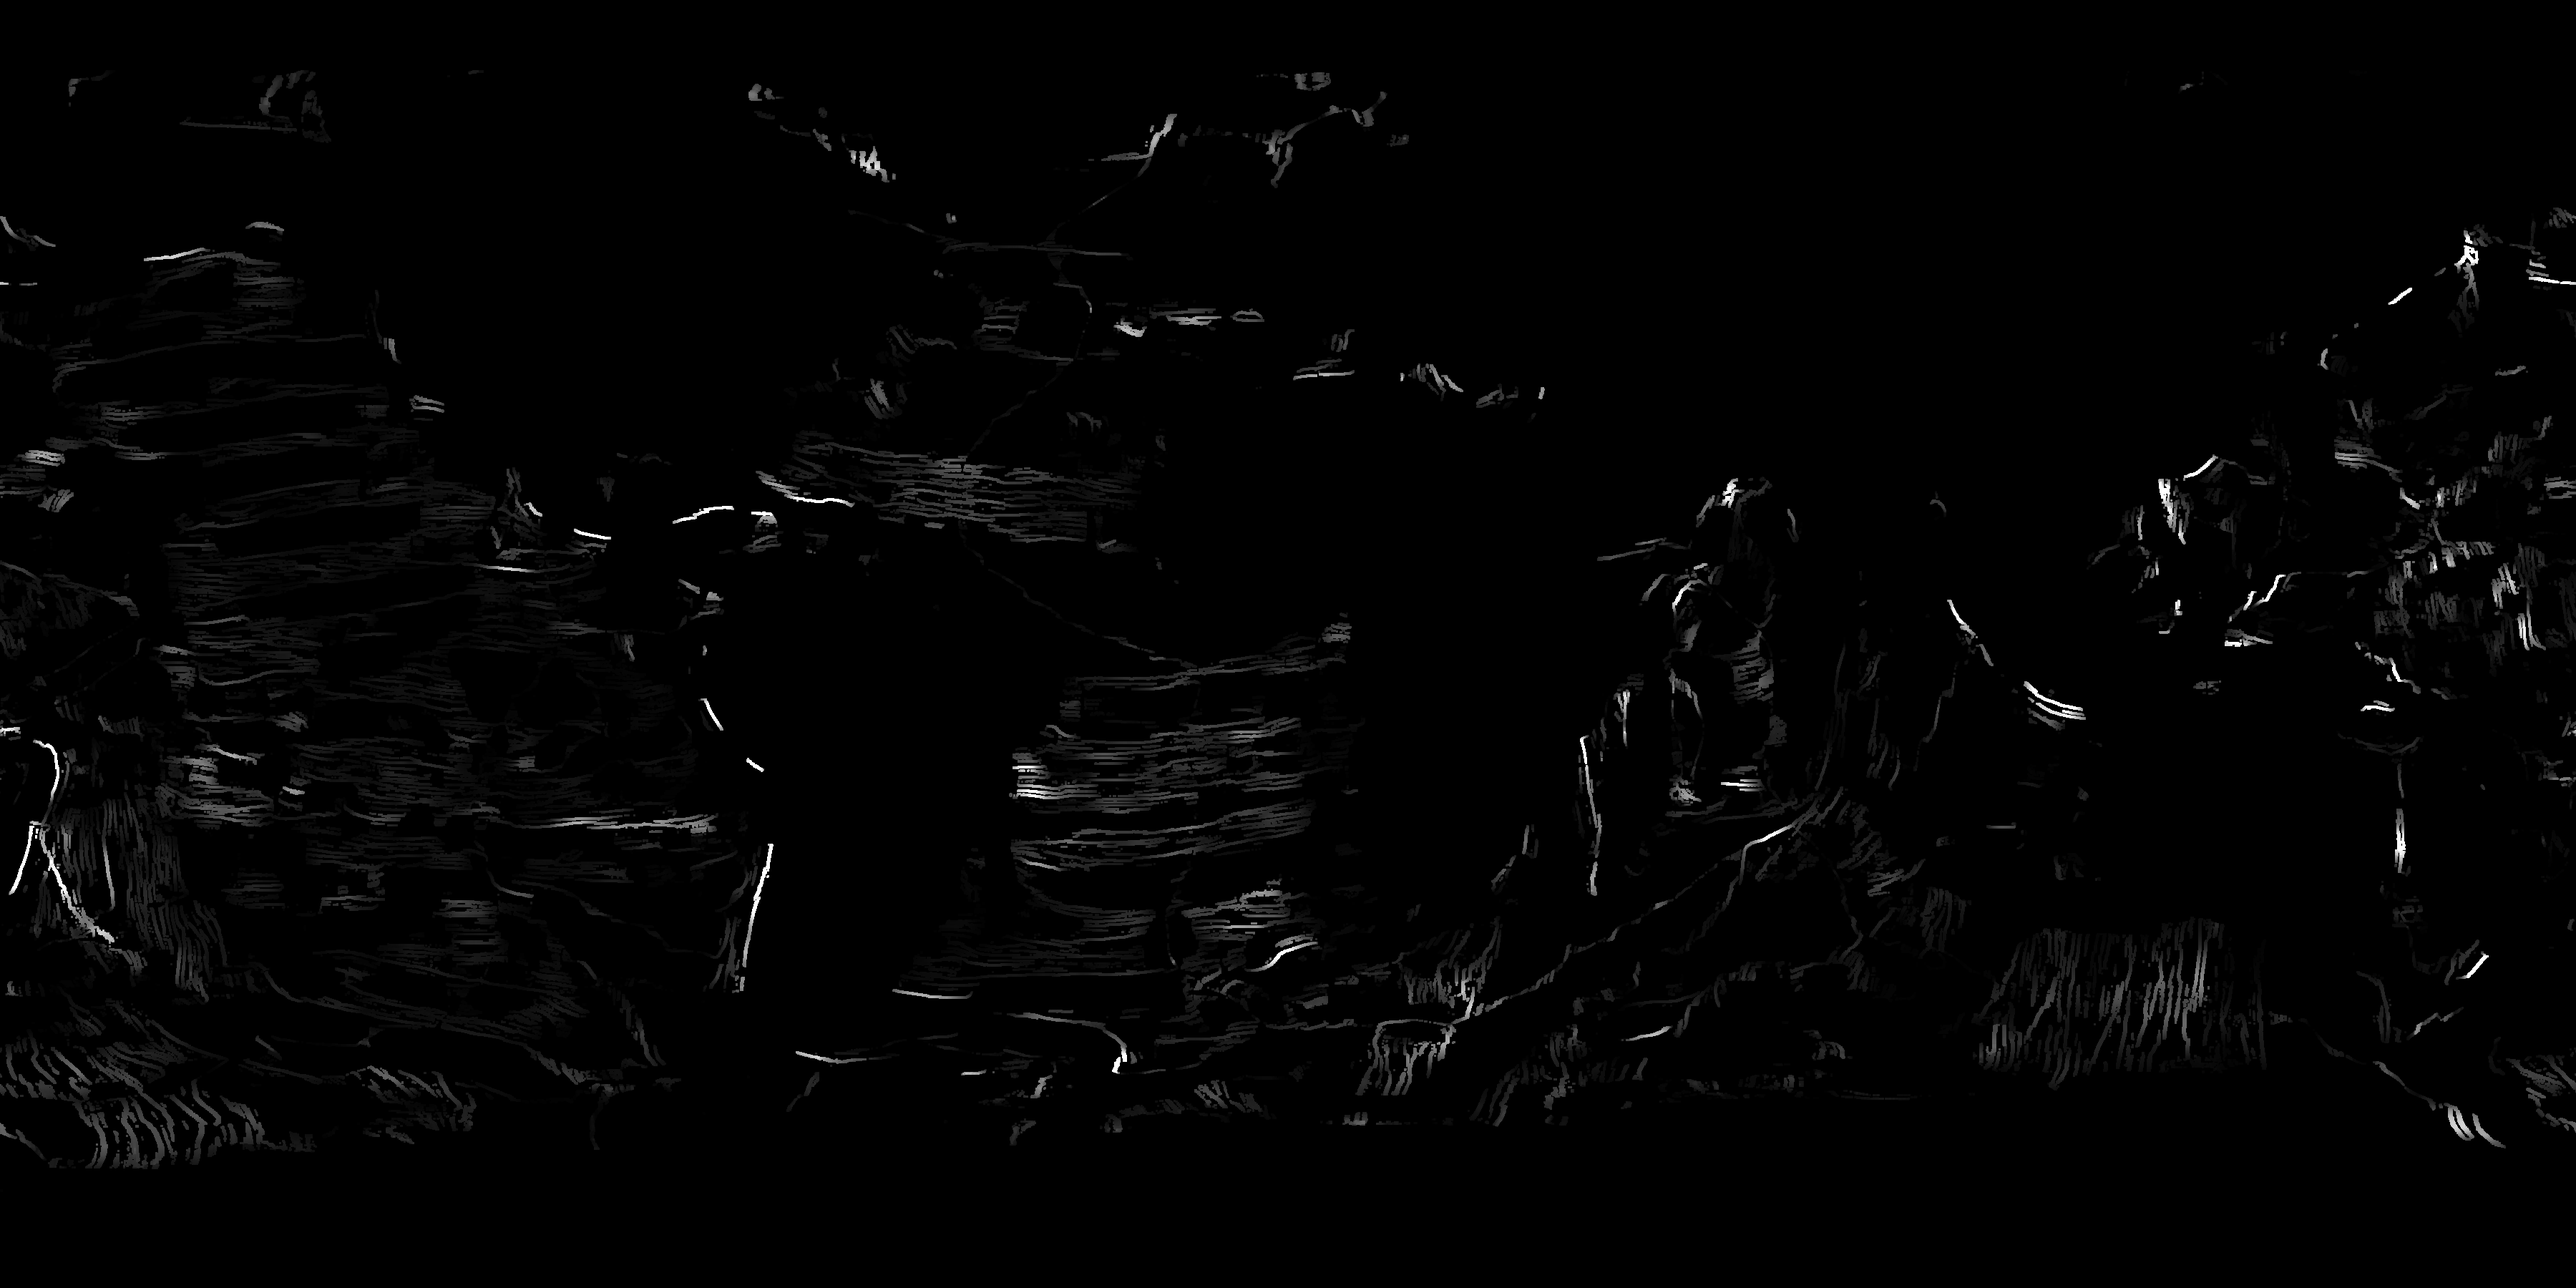
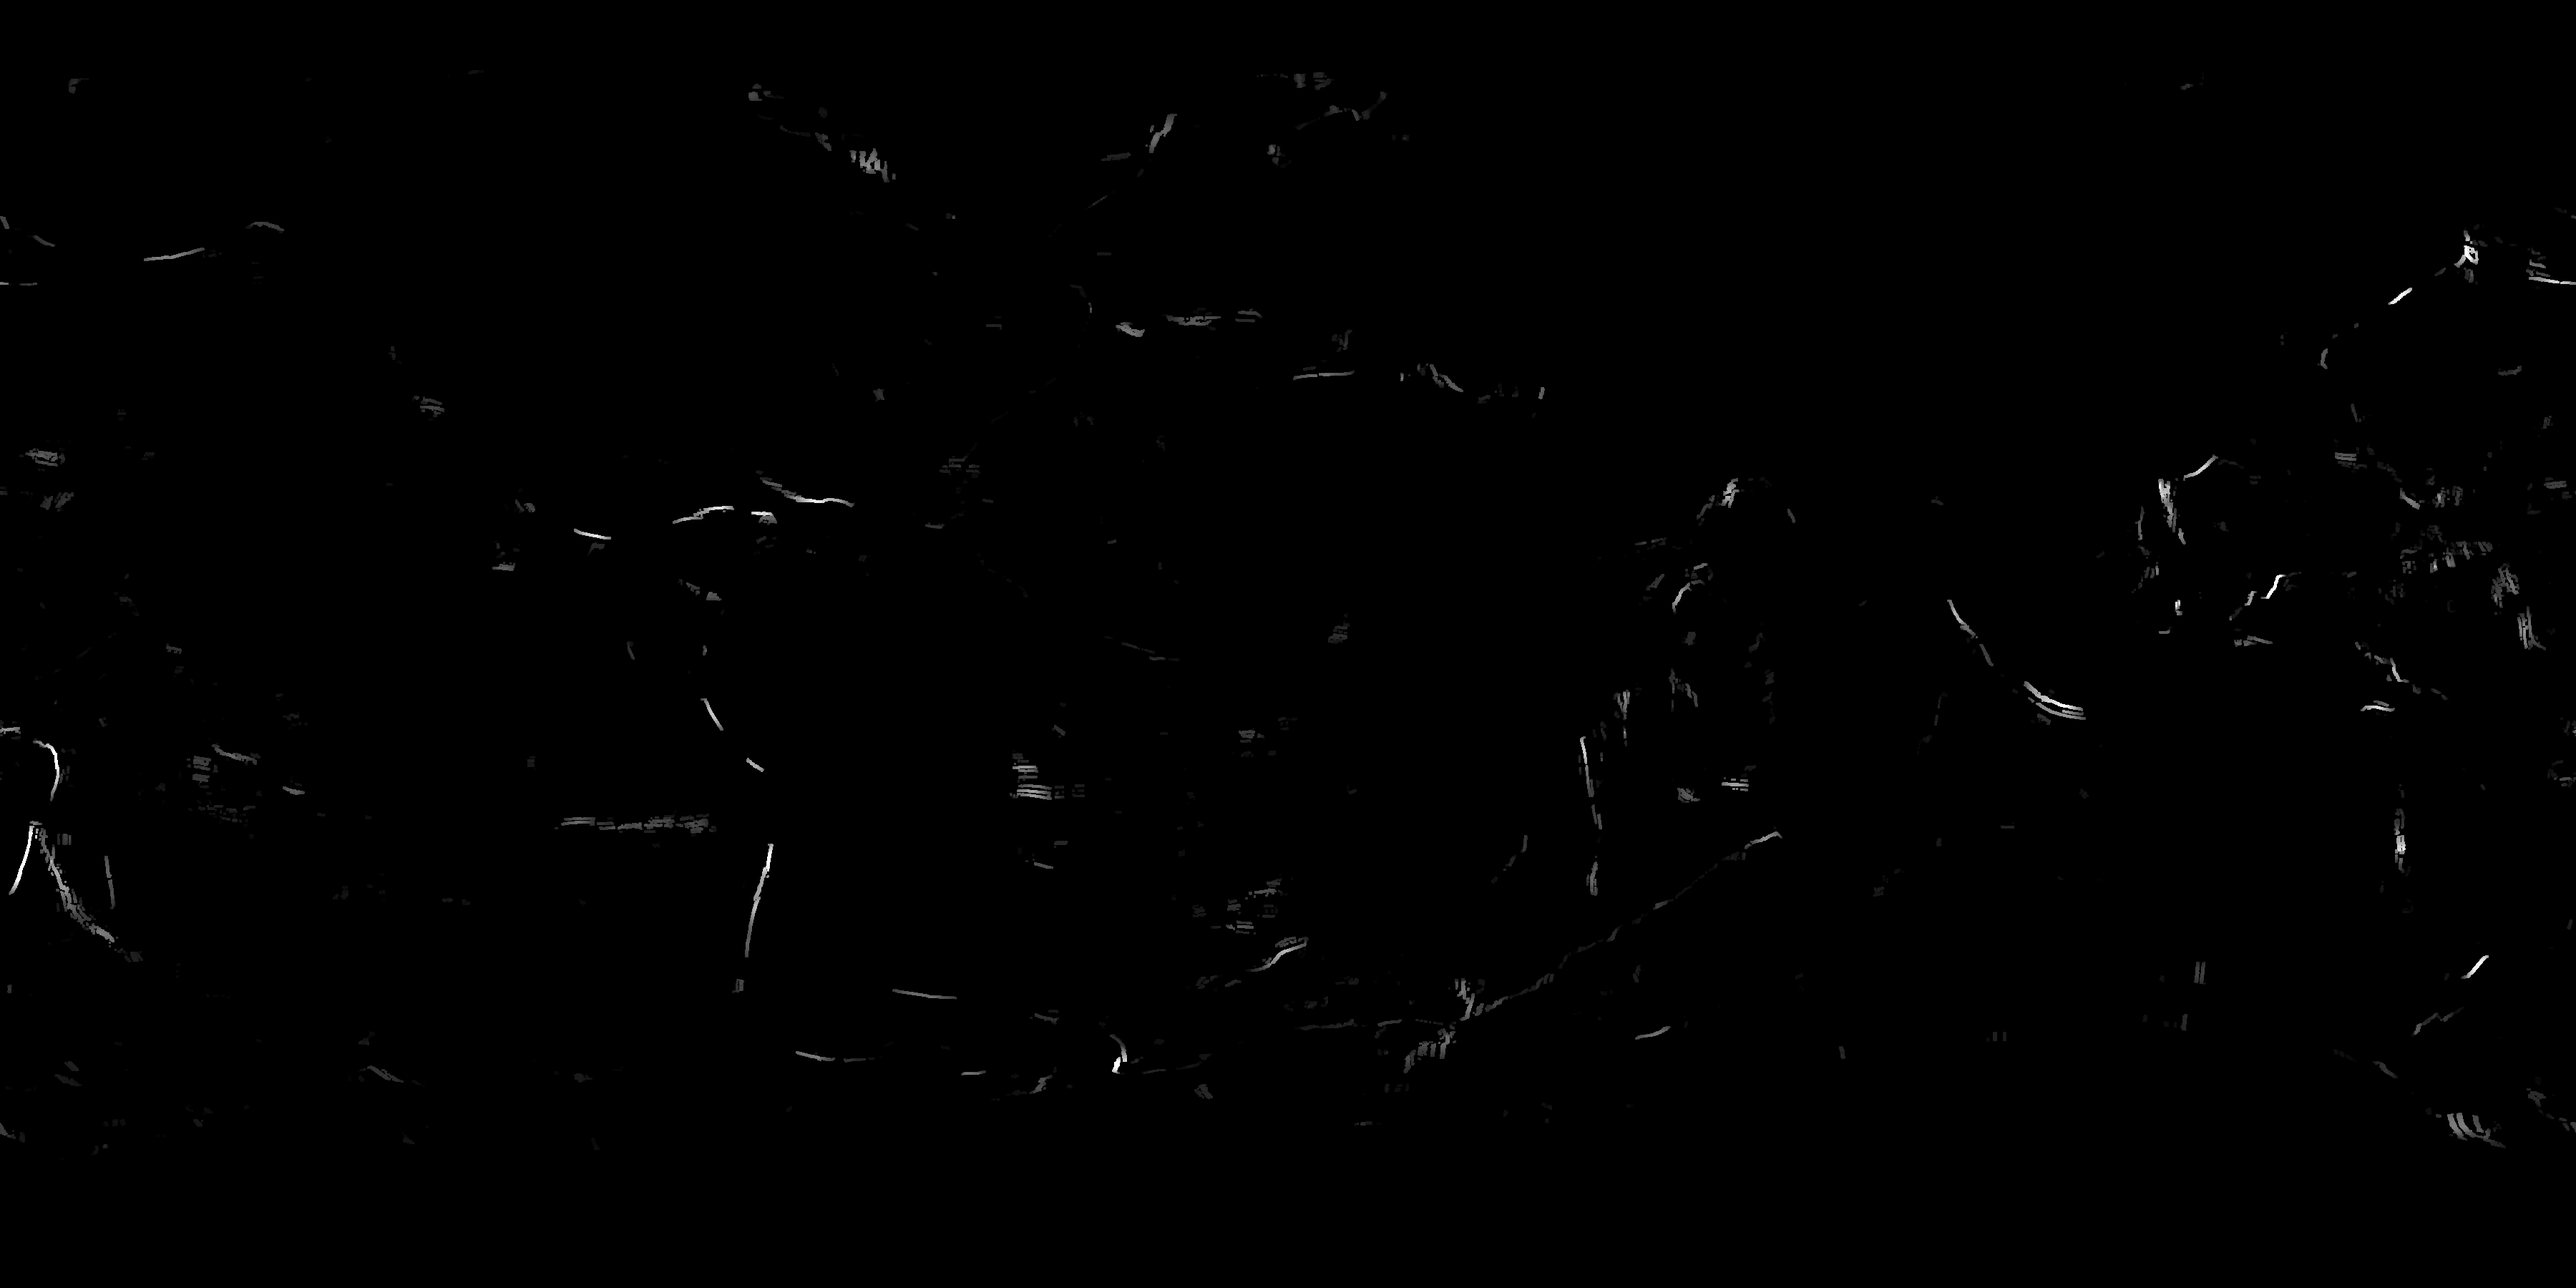
Require a fracture zone to be strong, and skip the ridge axis
The detector was finding nothing, and a reader looking at the picture said so
before any measurement did: the turquoise sat on featureless dark ground,
running parallel to the bright lineaments rather than on them.

The profile across the detected lines confirmed it exactly -- dead flat, no
trough, no bright flank, on ground of merely median roughness. The cause is that
all three tests were tests of *shape*: runs along the flow, keeps going, is
narrow. Shape without scale finds shapes in noise, because non-maximum
suppression keeps a local maximum whatever its size, so a whisper of anisotropic
noise pointing the right way survived exactly as a scarp did.

With a strength cut at the ninetieth percentile of the aligned cells, the same
profile peaks where it should: roughness on the line at the 76th percentile of
all sea floor against the 71st forty kilometres off it, and at a harder cut the
83rd against the 76th. Coverage falls from 4.3% of the globe to 0.6%, which is
the honest number -- these are curves, and there are not many of them.

Crust younger than 8 Ma is skipped. At a spreading centre the age rises in both
directions, so the travelled direction computed from its gradient is whatever
the two sides fail to cancel, and the detector was lighting up lengths of the
Mid-Atlantic Ridge axis: the one line on the sea floor that is certainly not a
path the crust took.

The two layers are also renamed, because "Fracture zones" and "Detected fracture
[…]

diff --git a/tools/lib/structure.ts b/tools/lib/structure.ts
@@ -515,10 +515,17 @@ export function crestOffsetKm(
  * smoothing that removes the hills removes the crest as well. Telling them
  * apart needs their shape, not their strength.
  *
- * Three properties do it, and each one removes a different impostor. It works:
- * it flags 4.3% of the surveyed globe, and where it fires the lines run a
- * median 13 degrees from the direction the crust travelled, against 28 to 34
- * for the ungated lineaments it was picked out of.
+ * Four properties do it, and each one removes a different impostor: the fourth
+ * is plain strength, added after the other three had been built and measured
+ * and found to be finding nothing. Every one of the others is a test of
+ * *shape*, and shape without scale finds shapes in noise -- the profile taken
+ * across the detected lines came back dead flat, no trough and no bright flank,
+ * on ground of merely median roughness. With a strength cut the same profile
+ * peaks where it should: on the line the roughness is at the 76th percentile of
+ * all sea floor against the 71st forty kilometres off it, and at a harder cut
+ * the 83rd against the 76th. It flags 0.6% of the surveyed globe, and where it
+ * fires the lines run a median 13 degrees from the direction the crust
+ * travelled, against 28 to 34 for the ungated lineaments it came out of.
  *
  * What it is *for* is still open. Handing these lines to the crest follower --
  * pulling every traced path onto the nearest detected fracture zone -- makes
@@ -559,6 +566,29 @@ export interface FractureOptions {
    * all, as the cosine of the angle between them. 0.87 is thirty degrees.
    */
   alignmentGate?: number
+  /**
+   * How strong a line has to be in absolute terms, as a quantile of every
+   * aligned cell's strength.
+   *
+   * Without this the detector fired on nothing. Non-maximum suppression keeps
+   * every local maximum whatever its size, so a whisper of anisotropic noise
+   * that happened to point the right way survived exactly as a scarp did, and
+   * the profile taken across the detected lines came back flat: no trough, no
+   * bright flank, no structure of any kind, on ground of merely median
+   * roughness. Every other test in here is about *shape*, and shape without
+   * scale finds shapes in noise.
+   */
+  strengthQuantile?: number
+  /**
+   * Crust younger than this is the ridge axis and is skipped, Ma.
+   *
+   * At a spreading centre the age rises in both directions, so the gradient
+   * there is whatever the two sides fail to cancel, and the travelled direction
+   * computed from it is meaningless. The detector was lighting up lengths of
+   * the Mid-Atlantic Ridge in consequence -- a ridge axis being the one line on
+   * the sea floor that is certainly not a path the crust took.
+   */
+  ridgeAgeMa?: number
 }
 
 export function fractureZones(
@@ -582,6 +612,8 @@ export function fractureZones(
   const continuityKm = options.continuityKm ?? 200
   const narrownessKm = options.narrownessKm ?? 25
   const alignmentGate = options.alignmentGate ?? 0.87
+  const strengthQuantile = options.strengthQuantile ?? 0.9
+  const ridgeAgeMa = options.ridgeAgeMa ?? 8
   const { width, height } = sharp
   const size = width * height
   const cellHeightKm = (Math.PI * r0) / height
@@ -652,9 +684,24 @@ export function fractureZones(
       // gravity grid are seamount chains and plateau edges, not fracture zones.
       // Everything square to the travelled direction is thrown away outright,
       // and what survives is ranked on strength alone.
+      if (ages[at] < ridgeAgeMa) continue
       const cos = Math.abs(Math.cos(axis - travelled))
       if (cos < alignmentGate) continue
       detected[at] = sharp.ridgeness[at]
+    }
+  }
+
+  // And it has to be a strong line, not merely a line-shaped one. Taken as a
+  // quantile of what survived the alignment gate rather than as an absolute
+  // number in Eotvos, because the right cut depends on the grid and on how hard
+  // it was smoothed, and a quantile travels with both.
+  {
+    const aligned: number[] = []
+    for (let i = 0; i < size; i++) if (detected[i] > 0) aligned.push(detected[i])
+    if (aligned.length) {
+      const sorted = Float64Array.from(aligned).sort()
+      const floor = sorted[Math.min(sorted.length - 1, Math.floor(strengthQuantile * sorted.length))]
+      for (let i = 0; i < size; i++) if (detected[i] < floor) detected[i] = 0
     }
   }
 

diff --git a/src/ui/Panel.tsx b/src/ui/Panel.tsx
@@ -164,7 +164,7 @@ export function Panel({ data }: { data: Dataset }) {
               checked={showTracks}
               onChange={(e) => setShowTracks(e.target.checked)}
             />
-            Fracture zones
+            Flow lines and pairs
           </label>
           <label className="toggle">
             <input
@@ -172,16 +172,17 @@ export function Panel({ data }: { data: Dataset }) {
               checked={showZones}
               onChange={(e) => setShowZones(e.target.checked)}
             />
-            Detected fracture zones
+            Fracture zones (from gravity)
           </label>
           <p className="caption">
-            In turquoise, and read from the gravity grid rather than from the age
-            grid &mdash; an independent instrument. A line is kept only where it
-            runs within twenty degrees of the way the crust travelled, keeps
-            going for hundreds of kilometres, and is narrow: 4.3% of the sea
-            floor survives that. Put them under the magenta paths and judge for
-            yourself whether the two agree. Drawn about three times wider than
-            they were measured, or they would be invisible.
+            In turquoise: not paths, but the scarps a fracture zone leaves in the
+            gravity field, found without ever reading the age grid. A line is
+            kept only where it is strong, narrow, keeps going for hundreds of
+            kilometres, and runs within twenty degrees of the way the crust
+            travelled &mdash; 0.6% of the sea floor survives all four. They are
+            the flow lines nature drew for us, and the ones to hang the rest of
+            the family on. Drawn about three times wider than measured, or they
+            would be invisible.
           </p>
           <p className="caption">
             The paths the crust took away from the ridges, in magenta &mdash; read off the age grid,

diff --git a/src/store.ts b/src/store.ts
@@ -78,15 +78,22 @@ interface State {
   showGrid: boolean
   /** Draw the shell as glass with its triangles on top; see src/scene/Globe.tsx. */
   showMesh: boolean
-  /** Draw the fracture zones and the pairs due to meet now; see shared/tracks.ts. */
+  /**
+   * Draw the traced flow lines and the pairs due to meet now.
+   *
+   * These are paths, one per track, read off the age grid by walking away from
+   * a ridge -- what the model believes the crust did. See shared/tracks.ts.
+   */
   showTracks: boolean
   /**
    * Paint the fracture zones the gravity grid was searched for.
    *
-   * Not the same thing as showTracks at all, and the pair is the point: those
-   * are the paths the model traced, these are the lines a detector found in an
-   * independent dataset, and putting one over the other is how a reader judges
-   * whether they agree. See fractureZones in tools/lib/structure.ts.
+   * Not the same thing as showTracks, and the pair of them is the point. Those
+   * are paths: continuous, one per track, covering the ocean, and inferred.
+   * These are evidence: scarps a fracture zone left in an independent dataset,
+   * sparse, broken where nothing was left behind, and observed. Putting the two
+   * on the same crust is how a reader judges whether the inference matches the
+   * evidence. See fractureZones in tools/lib/structure.ts.
    */
   showZones: boolean
   endTimeMa: number

diff --git a/MODEL.md b/MODEL.md
@@ -263,15 +263,32 @@ the continuity it is meant to test.
 And it is *narrow*: only cells that are a maximum across their own line survive,
 which thins the result to a curve a cell wide.
 
+A fourth property had to be added after the other three were built, measured,
+and found to be finding nothing. Every one of them is a test of *shape*, and
+shape without scale finds shapes in noise: non-maximum suppression keeps a local
+maximum whatever its size, so a whisper of anisotropic noise pointing the right
+way survived exactly as a scarp did. The profile taken across the detected lines
+came back dead flat &mdash; no trough, no bright flank, nothing &mdash; on
+ground of merely median roughness, which is precisely what a reader looking at
+the fabric map reported before the measurement was taken. With a strength cut
+the same profile peaks where it should: the roughness on the line is at the 76th
+percentile of all sea floor against the 71st forty kilometres off it, and at a
+harder cut the 83rd against the 76th.
+
 Alignment gates rather than weights, and that is the difference between working
 and not. Multiplying strength by alignment lets a loud half-aligned feature
 outrank a quiet perfectly aligned one, and ranked that way the strongest
 detections came out at 44 degrees to the flow &mdash; worse than picking at
 random, because the loudest lines in a gravity grid are seamount chains and
 plateau edges. Gated at twenty degrees and ranked on strength alone, the
-detector flags 4.3% of the surveyed globe and the lines it keeps run a median 13
+detector flags 0.6% of the surveyed globe and the lines it keeps run a median 13
 degrees from the direction the crust travelled, against 28 to 34 for the
-ungated lineaments they were picked out of.
+ungated lineaments they were picked out of. Crust younger than 8 Ma is skipped
+outright: at a spreading centre the age rises in both directions, so the
+travelled direction computed from it is whatever the two sides fail to cancel,
+and the detector was lighting up lengths of the Mid-Atlantic Ridge axis in
+consequence &mdash; the one line on the sea floor that is certainly not a path
+the crust took.
 
 So the detector works. What it is *for* is still open, because pulling the
 traced paths onto its lines makes the reconstruction worse:
